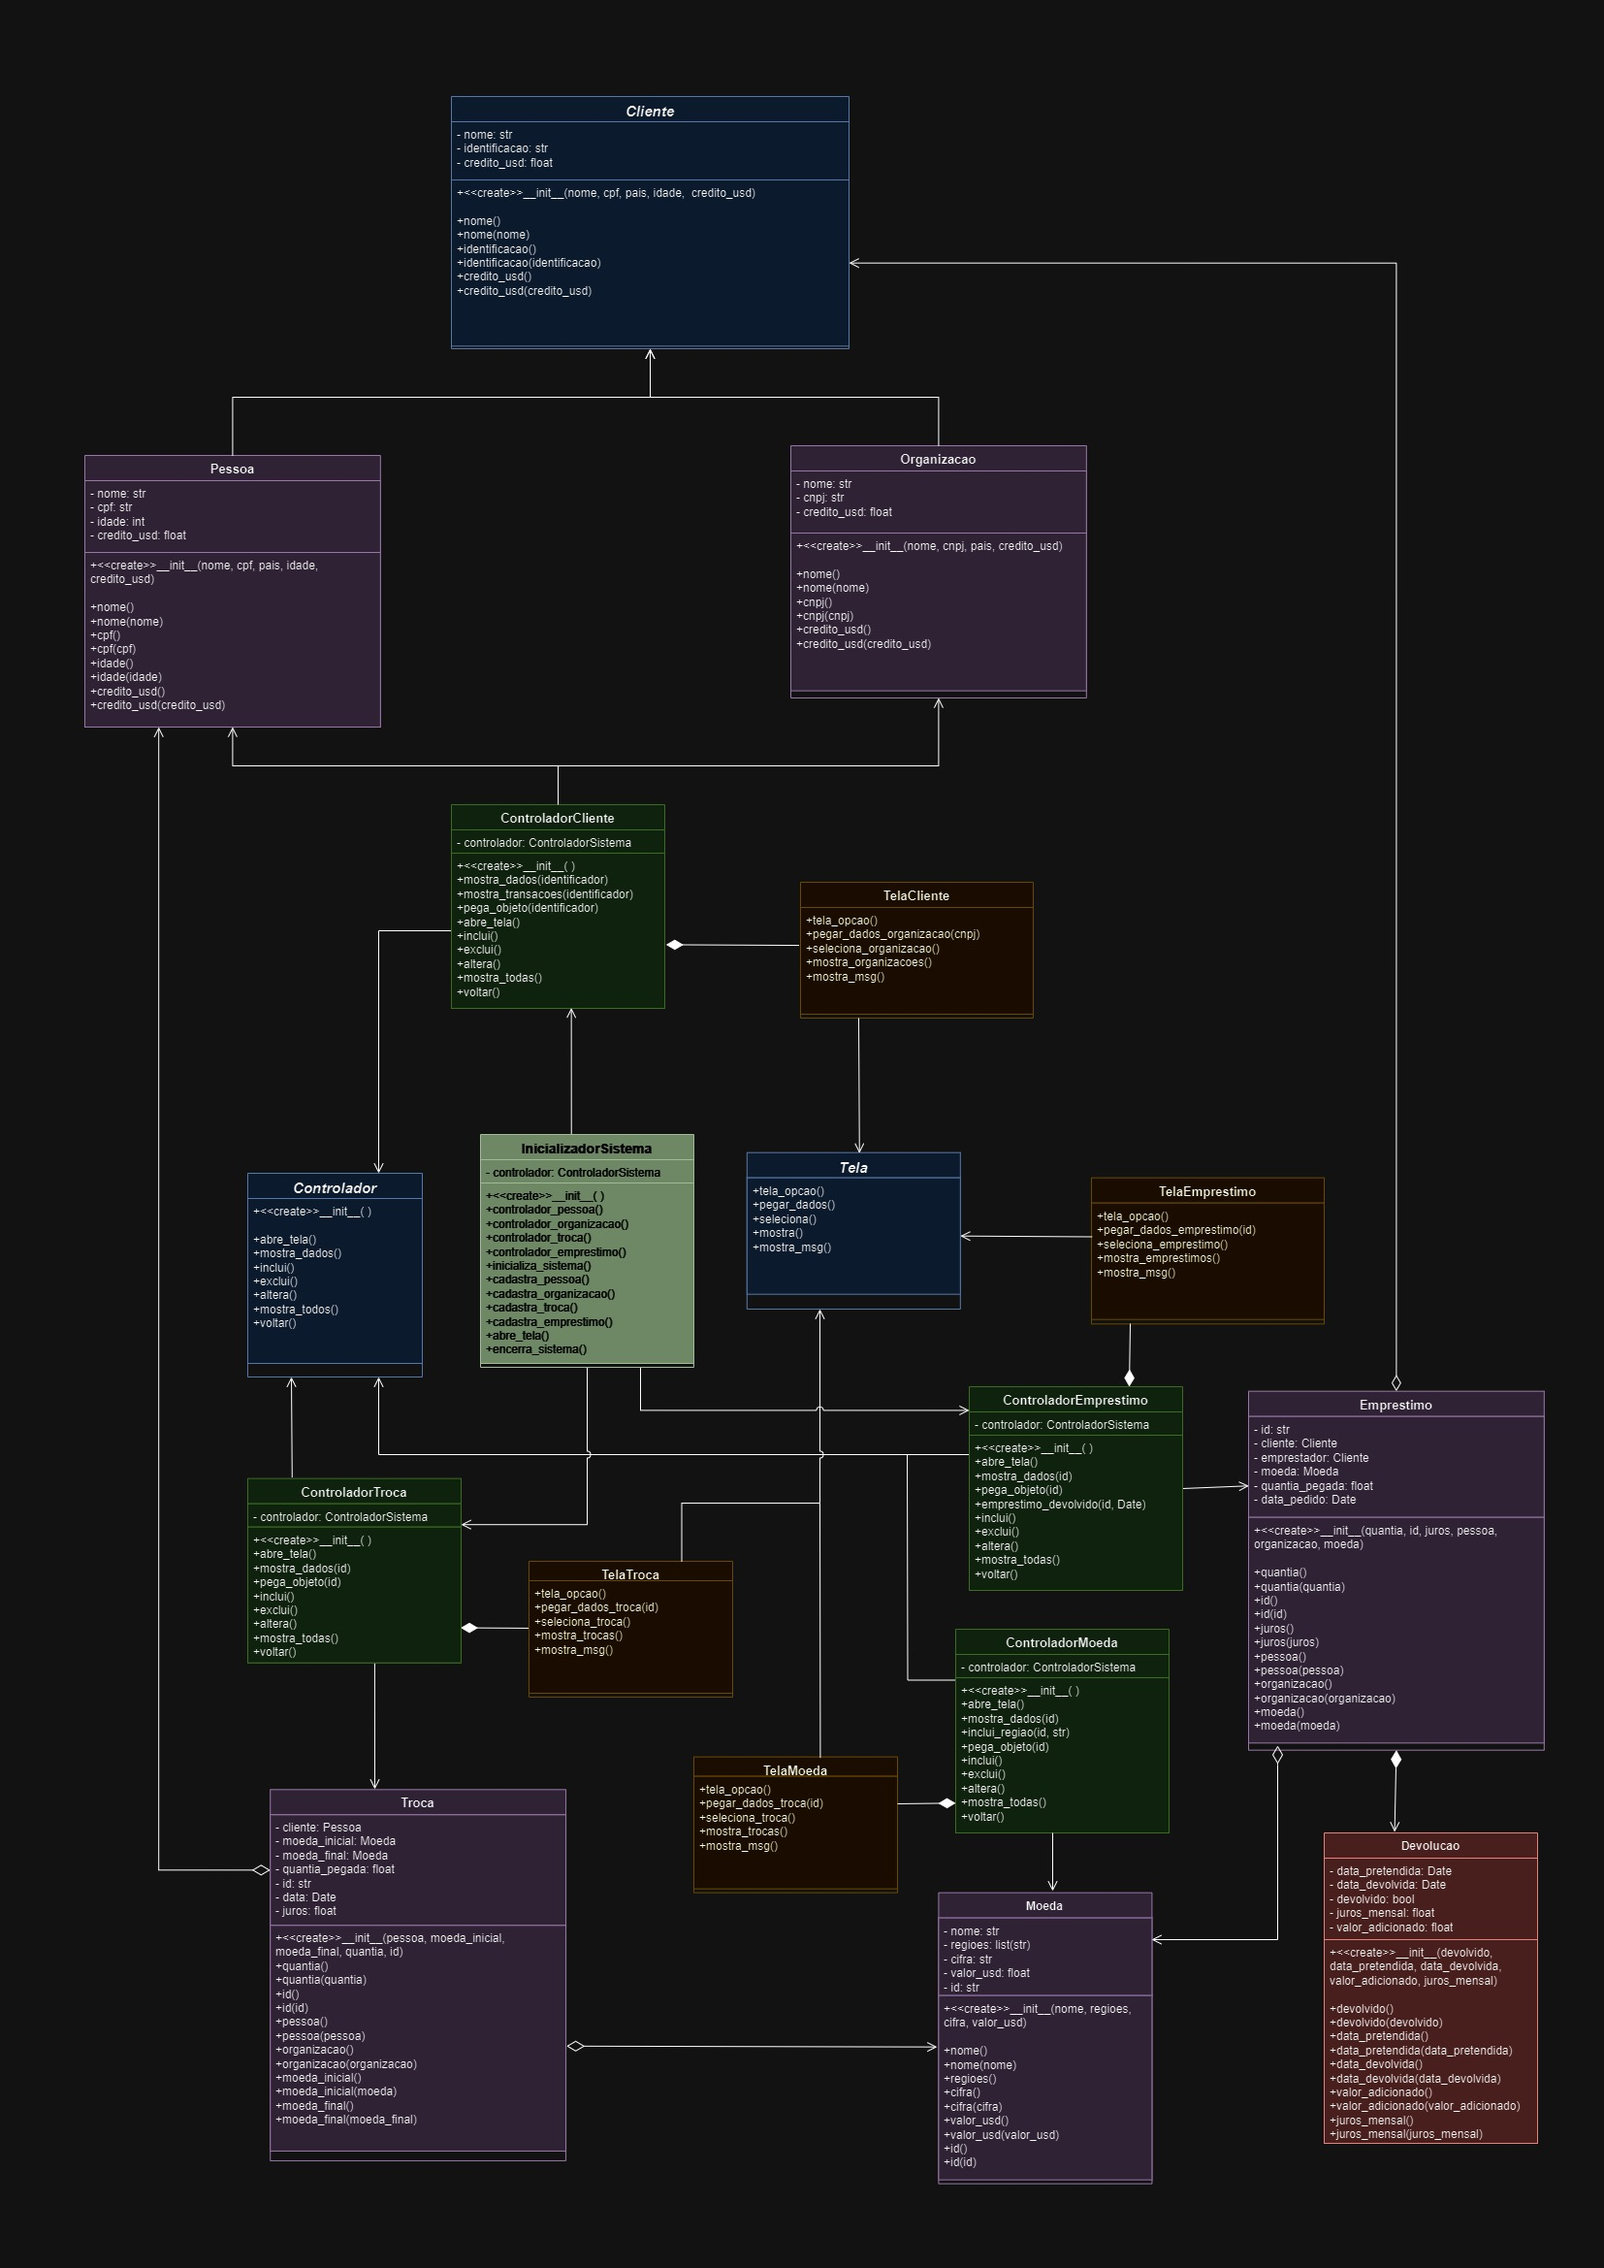
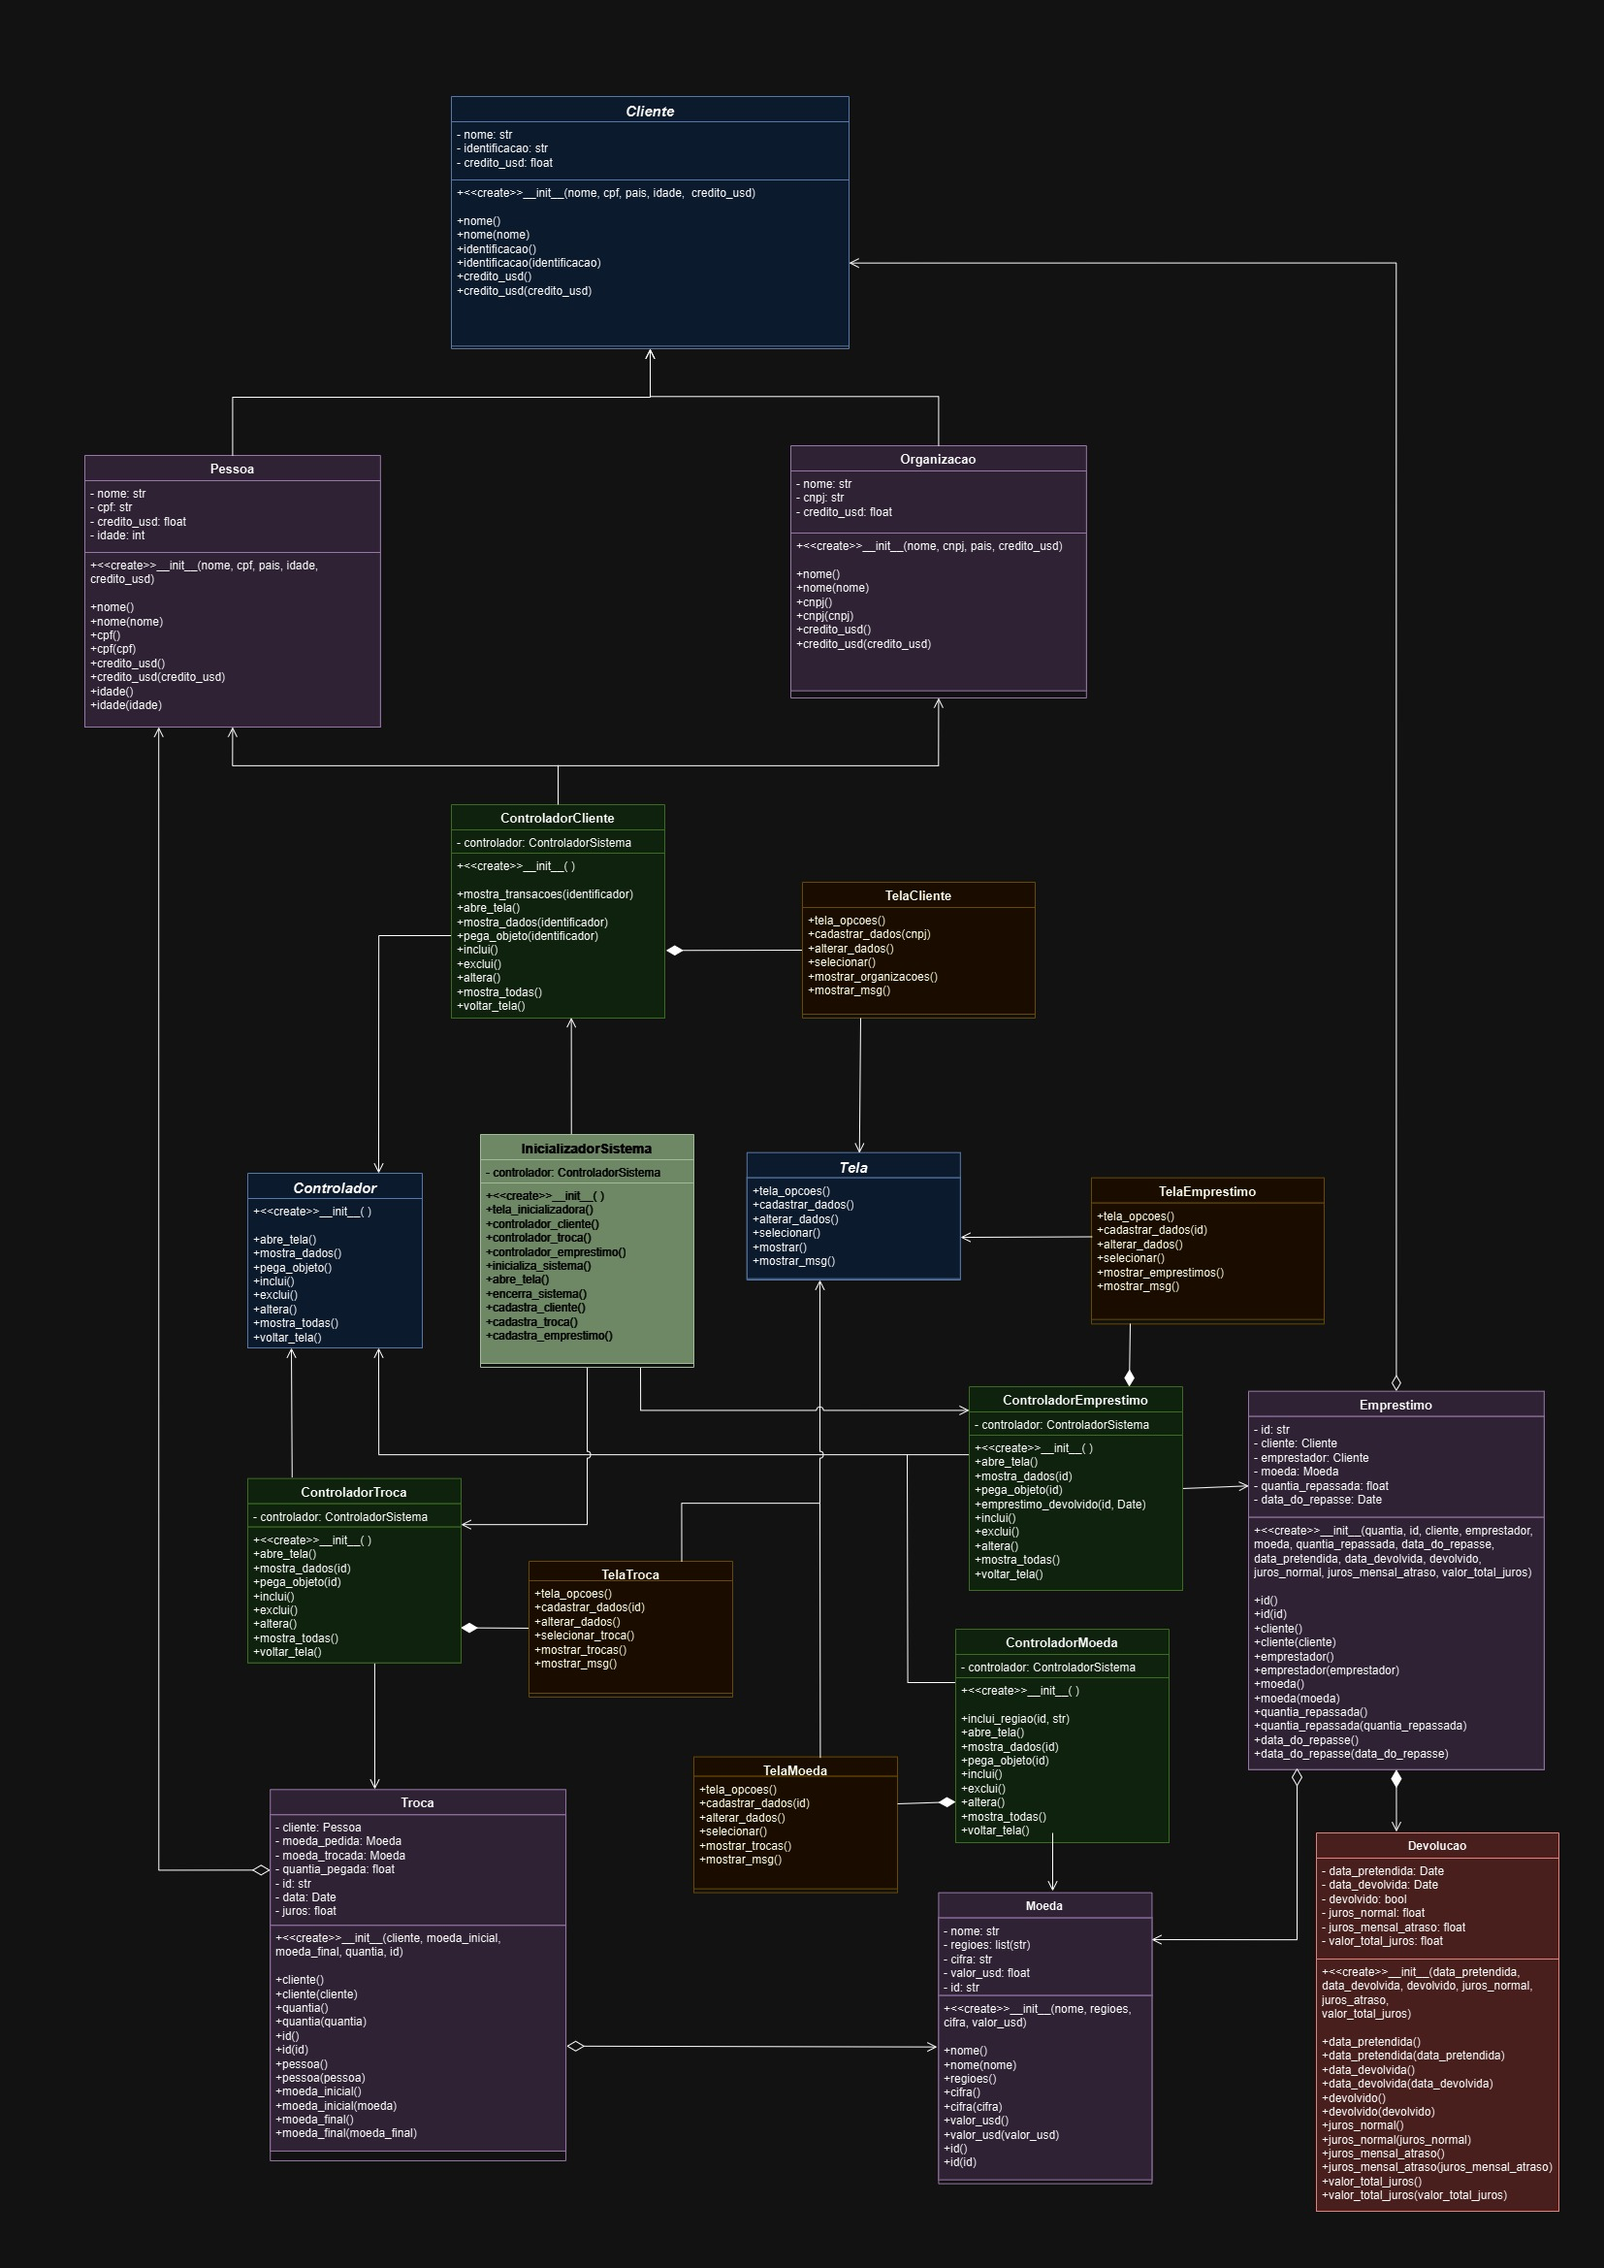
uniao Clientes
controlador e tela de Pessoa e Organizacao juntos em um só como Cliente; faltam alguns detalhes principalmente no controlador. MVC atualizado e detalhes alterados e adicionados

diff --git a/controladores/controladorCliente.py b/controladores/controladorCliente.py
@@ -1,57 +1,80 @@
+from abstratas.absControlador import Controlador
 from telas.telaCliente import TelaCliente
 from entidades.organizacao import Organizacao
-from abstratas.absControlador import Controlador
+from entidades.pessoa import Pessoa
 
 class ControladorCliente(Controlador):
     def __init__(self, controlador_sistema):
         self.__controlador_sistema = controlador_sistema
-        self.__tela_organizacao = TelaCliente()
-        self.__organizacoes = []
+        self.__tela_cliente = TelaCliente()
+        self.__pessoas = [Pessoa]
+        self.__organizacoes = [Organizacao]
 
-    def pegar_por_id(self, id):
-        for organizacoes in self.__organizacoes:
-            if organizacoes.id == id:
-                return organizacoes
-        return None
-
-    def inclui(self):
-        dados_organizacao = self.__tela_organizacao.pegar_dados()
-        self.__organizacoes.append(Organizacao(dados_organizacao['nome'], dados_organizacao['id'], 0))
-
-    def exclui(self):
-        id = self.__tela_organizacao.selecionar()
-        organizacao = self.pegar_por_id(id)
-        if not organizacao == None:
-            self.__organizacoes.remove(organizacao)
-        else:
-            self.__tela_organizacao.mostra_msg('Organização não existe')
-
-    def listar(self):
-        for organizacao in self.__organizacoes:
-            self.__tela_organizacao.mostrar({'nome': organizacao.nome, 'id': organizacao.id, 'credito_usd': organizacao.credito_usd})
-
-    def altera(self):
-        self.listar()
-        id = self.__tela_organizacao.selecionar()
-        organizacao = self.pegar_por_id(id)
-        if organizacao != None:
-            for org in self.__organizacoes:
-                if org.id == organizacao.id:
-                    nova_org = self.__tela_organizacao.pegar_dados()
-                    org.nome = nova_org['nome']
-                    org.id = nova_org['id']
-        else:
-            self.__tela_organizacao.mostra_msg('Organização não existe')
-                    
 
     def abre_tela(self):
-        command_list = {0: self.retornar, 1: self.inclui, 2: self.exclui, 3: self.listar, 4: self.altera}
-
+        command_list = {1: self.mostra_dados, 2: self.inclui, 3: self.exclui, 4: self.altera, 5: self.mostra_todas, 0: self.voltar_tela}
         continuar = True
         while continuar:
-            command_list[self.__tela_organizacao.tela_opcoes()]()
+            command_list[self.__tela_cliente.tela_opcoes()]()
 
-    def retornar(self):
+    def mostra_dados(self, id):
+        if len(id) == 11: #cpf
+            for pessoa in self.__pessoas:
+                if pessoa.id == id:
+                    self.__tela_cliente.mostrar({'nome': pessoa.nome, 'id': pessoa.id, 'credito_usd': pessoa.credito_usd})
+
+        elif len(id) == 14: #cnpj
+            for org in self.__organizacoes:
+                if org.id == id:
+                    self.__tela_cliente.mostrar({'nome': org.nome, 'id': org.id, 'credito_usd': org.credito_usd})
+
+    def pega_objeto(self, id):
+        if len(id) == 11: #cpf
+            for pessoa in self.__pessoas:
+                if pessoa.id == id:
+                    return pessoa
+        elif len(id) == 14: #cnpj
+            for org in self.__organizacoes:
+                if org.id == id:
+                    return org
+
+    def inclui(self):
+        dados_cliente = self.__tela_cliente.cadastrar_dados()
+        if len(dados_cliente) == 2:
+            self.__organizacoes.append(Organizacao(dados_cliente['nome'], dados_cliente['id'], 0))
+        elif len(dados_cliente) == 3:
+            self.__organizacoes.append(Pessoa(dados_cliente['nome'], dados_cliente['id'], 0, dados_cliente['idade']))
+
+    def exclui(self):
+        id = self.__tela_cliente.selecionar()
+        cliente = self.pega_objeto(id)
+        if not cliente == None:
+            self.__organizacoes.remove(cliente)
+        else:
+            self.__tela_cliente.mostrar_msg('Organização não existe')
+
+    def mostra_todas(self):
+        for org in self.__organizacoes:
+            self.__tela_cliente.mostrar({'nome': org.nome, 'id': org.id, 'credito_usd': org.credito_usd})
+        for pessoa in self.__pessoas:
+            self.__tela_cliente.mostrar({'nome': pessoa.nome, 'id': pessoa.id, 'idade': pessoa.idade, 'credito_usd': pessoa.credito_usd})
+
+    def altera(self):
+        self.mostra_todas()
+        id = self.__tela_cliente.selecionar()
+        id_a_alterar = self.pega_objeto(id)
+        if id_a_alterar != None:
+            lista = self.__pessoas if len(id) == 11 else self.__organizacoes
+            for cliente in lista:
+                if cliente.id == id_a_alterar.id:
+                    novo_cliente = self.__tela_cliente.cadastrar_dados()
+                    cliente.nome = novo_cliente['nome']
+                    cliente.id = novo_cliente['id']
+                    if len(id) == 11:
+                        cliente.idade = novo_cliente['idade']
+        else:
+            self.__tela_cliente.mostrar_msg('Organização não existe')
+
+    def voltar_tela(self):
         self.__controlador_sistema.abre_tela()
-
 

diff --git a/telas/telaCliente.py b/telas/telaCliente.py
@@ -6,32 +6,44 @@ class TelaCliente(Tela):
         print('-------CLIENTES-------')
         print('1 - Incluir cliente')
         print('2 - Excluir cliente')
-        print('3 - Listar cliente')
+        print('3 - Listar todos clientes')
         print('4 - Alterar cliente')
         print('0 - Retornar')
 
         opcao = int(input("Escolha uma Opção: "))
         return opcao
 
-    def pegar_dados(self):
+    def cadastrar_dados(self):
         print('-------CADASTRAR CLIENTE--------')
-        nome = str(input('Digite o nome do cliente: '))
-        id = str(input('Digite seu cpf/cnpj: '))
-        return {"nome":nome, "id":id}
+        tipo = input('Digite 0 para cadastrar Pessoa Física e 1 para cadastrar Organização: ')
+        if tipo == "0": 
+            nome = input('Digite o nome da pessoa: ')
+            id = input('Digite o cpf da pessoa: ')
+            idade = input('Digite a idade da pessoa: ')
+            return {"nome":nome, "id":id, "idade":idade}
+        else:
+            nome = input('Digite o nome da organização: ')
+            id = input('Digite o cnpj da organização: ')
+            return {"nome":nome, "id":id}
+        
+    def alterar_dados(self):
+        pass
+        
     
     def mostrar(self, dados_organizacao):
         print('--------INFORMAÇÕES DOS CLIENTES--------')
         print(f'NOME: {dados_organizacao['nome']}')
-        print(f'CPF/CNPJ: {dados_organizacao['id']}')
+        if 'idade' in dados_organizacao:
+            print(f'CPF: {dados_organizacao['id']}')
+            print(f'IDADE: {dados_organizacao['idade']}')
+        else:
+            print(f'CNPJ: {dados_organizacao['id']}')
         print(f'CRÉDITO: {dados_organizacao['credito_usd']}')
         print("\n")
 
     def selecionar(self):
-        id = input('Digite o cnpj da organizacao que deseja achar: ')
+        id = input('Digite o cpf/cnpj do cliente que deseja achar: ')
         return id
 
-    def mostra_msg(self, msg):
-        return super().mostra_msg(msg)
-
-
-        
+    def mostrar_msg(self, msg):
+        print(msg)

diff --git a/controladores/inicializadorSistema.py b/controladores/inicializadorSistema.py
@@ -1,0 +1,39 @@
+from controladores.controladorCliente import ControladorCliente
+from controladores.controladorTroca import ControladorTroca
+from controladores.controladorEmprestimo import ControladorEmprestimo
+from telas.telaInicializadora import TelaInicializadora
+
+class InicializadorSistema():
+    def __init__(self):
+        self.__tela_inicializadora = TelaInicializadora()
+        self.__controlador_cliente = ControladorCliente()
+        self.__controlador_troca = ControladorTroca()
+        self.__controlador_emprestimo = ControladorEmprestimo()
+
+    @property
+    def tela_inicializadora(self):
+        return self.__tela_inicializadora
+    
+    def inicializa_sistema(self):
+        self.abre_tela()
+
+    def abre_tela(self):
+        lista_opcoes = {0:self.encerra_sistema, 1: self.cadastra_cliente}   
+
+        while True:
+            opcao_escolhida = self.__tela.tela_opcoes()
+            funcao_escolhida = lista_opcoes[opcao_escolhida]
+            funcao_escolhida()
+
+    def encerra_sistema(self):
+        pass
+
+    def cadastra_cliente(self):
+        self.__controlador_cliente.abre_tela()
+
+    def cadastra_troca(self):
+        self.__controlador_troca.abre_tela()
+
+    def cadastra_emprestimo(self):
+        self.__controlador_emprestimo.abre_tela()
+    

diff --git a/entidades/pessoa.py b/entidades/pessoa.py
@@ -2,12 +2,13 @@ from abstratas.absCliente import Cliente
 
 
 class Pessoa(Cliente):
-    def __init__(self, nome:str, cpf:str, idade:int, credito_usd:float):
+    def __init__(self, nome:str, cpf:str, credito_usd:float, idade:int):
         super().__init__(nome, credito_usd, cpf)
         self.__idade = idade
         self.__emprestimos_pedidos = []
         self.__emprestimos_concedidos = []
         self.__trocas_feitas = []
+
 
     @property
     def idade(self):
@@ -15,7 +16,3 @@ class Pessoa(Cliente):
     @idade.setter
     def idade(self, idade):
         self.__idade = idade
-
-
-
-

diff --git a/abstratas/absControlador.py b/abstratas/absControlador.py
@@ -9,6 +9,14 @@ class Controlador(ABC):
         pass
 
     @abstractmethod
+    def mostra_dados(self):
+        pass
+
+    @abstractmethod
+    def pega_objeto(self):
+        pass
+
+    @abstractmethod
     def inclui(self):
         pass
 
@@ -17,9 +25,9 @@ class Controlador(ABC):
         pass
 
     @abstractmethod
-    def listar(self):
+    def altera(self):
         pass
 
     @abstractmethod
-    def altera(self):
+    def mostra_todas(self):
         pass

diff --git a/telas/telaInicializadora.py b/telas/telaInicializadora.py
@@ -1,0 +1,11 @@
+class TelaInicializadora():
+    def tela_opcoes(self):
+        print("------CASA DE CAMBIO E EMPRÉSTIMOS------")
+        print("OPÇÕES:")
+        print("1 - Cliente")
+        print("2 - ...")
+        print("3 - ...")
+        print("4 - ...")
+        print("0 - Encerrar :(")
+        opcao = int(input("Escolha uma opção para ver/cadastrar: "))
+        return opcao

diff --git a/controladores/controladorEmprestimo.py b/controladores/controladorEmprestimo.py
@@ -1,0 +1,10 @@
+from telas.telaCliente import TelaCliente
+from entidades.organizacao import Organizacao
+from abstratas.absControlador import Controlador
+
+class ControladorEmprestimo(Controlador):
+    def __init__(self, controlador_sistema):
+        self.__controlador_sistema = controlador_sistema
+        
+    def abre_tela(self):
+        pass

diff --git a/controladores/controladorTroca.py b/controladores/controladorTroca.py
@@ -1,0 +1,10 @@
+from telas.telaCliente import TelaCliente
+from entidades.organizacao import Organizacao
+from abstratas.absControlador import Controlador
+
+class ControladorTroca(Controlador):
+    def __init__(self, controlador_sistema):
+        self.__controlador_sistema = controlador_sistema
+
+    def abre_tela(self):
+        pass

diff --git a/entidades/organizacao.py b/entidades/organizacao.py
@@ -2,7 +2,6 @@ from abstratas.absCliente import Cliente
 
 class Organizacao(Cliente):
     def __init__(self, nome:str, cnpj:str, credito_usd:float):
-        super().__init__(nome, credito_usd, cnpj)
+        super().__init__(nome, cnpj, credito_usd)
         self.__emprestimos_pedidos = []
         self.__emprestimos_concedidos = []
-

diff --git a/abstratas/absCliente.py b/abstratas/absCliente.py
@@ -2,7 +2,7 @@ from abc import abstractmethod, ABC
 
 class Cliente(ABC):
     @abstractmethod
-    def __init__(self, nome: str, credito_usd: int, id:str):
+    def __init__(self, nome: str, id:str, credito_usd: int):
         self.__nome = nome 
         self.__id = id
         self.__credito_usd = credito_usd

diff --git a/main.py b/main.py
@@ -1,4 +1,4 @@
-from controladores.inicializador import Inicializador
+from controladores.inicializadorSistema import InicializadorSistema
 
 if __name__ == "__main__":
-    Inicializador().inicializa_sistema()
+    InicializadorSistema().inicializa_sistema()

diff --git a/abstratas/absTela.py b/abstratas/absTela.py
@@ -19,5 +19,5 @@ class Tela(ABC):
         pass
 
     @abstractmethod
-    def mostra_msg(self, msg):
-        print(msg)
+    def mostra_msg(self):
+        pass
